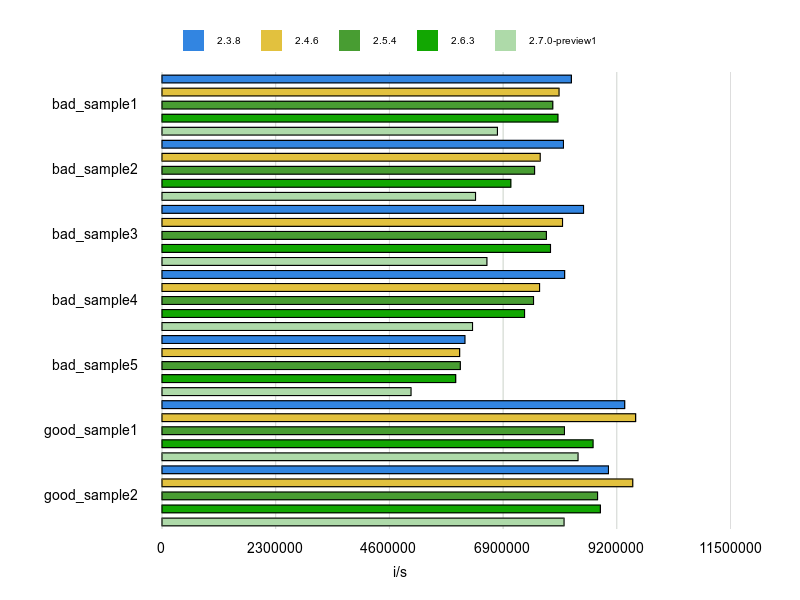
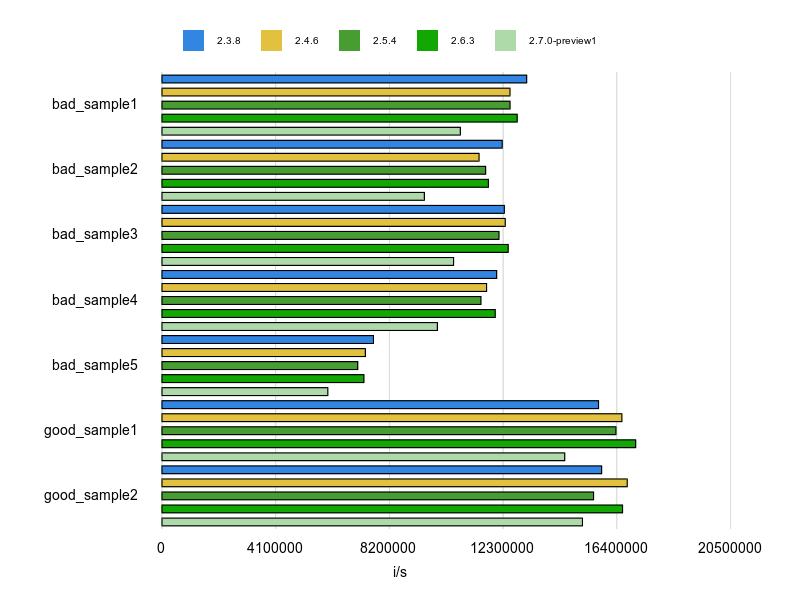
improve casecmp

diff --git a/benchmarks/casecmp.rb b/benchmarks/casecmp.rb
@@ -13,38 +13,35 @@ Benchmark.driver(output: output) do |x|
   x.rbenv *versions
 
   x.prelude <<~RUBY
+    STR_U = 'ABC'
+    STR_L = 'abc'
+
     def bad_sample1
-      str = 'ABC'
-      str.downcase == 'abc'
+      STR_U.downcase == STR_L
     end
 
     def bad_sample2
-      str = 'abc'
-      str.upcase.eql? 'ABC'
+      STR_L.upcase.eql? STR_U
     end
+
     def bad_sample3
-      str = 'ABC'
-      'abc' == str.downcase
+      STR_L == STR_U.downcase
     end
 
     def bad_sample4
-      str = 'abc'
-      'ABC'.eql? str.upcase
+      STR_U.eql? STR_L.upcase
     end
 
     def bad_sample5
-      str = 'ABC'
-      str.downcase == str.downcase
+      STR_U.downcase == STR_U.downcase
     end
 
     def good_sample1
-      str = 'abc'
-      str.casecmp('ABC').zero?
+      STR_L.casecmp(STR_U).zero?
     end
 
     def good_sample2
-      str = 'ABC'
-      'abc'.casecmp(str).zero?
+      STR_U.casecmp(STR_L).zero?
     end
   RUBY
 
